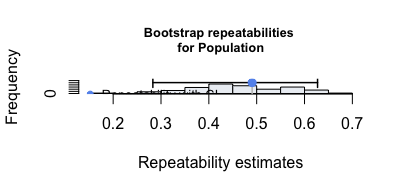
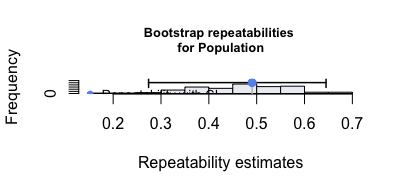
readme finetuning

Changed region(s): [[0.2978, 0.4062, 0.8933, 0.5]]

diff --git a/README.md b/README.md
@@ -72,12 +72,12 @@ summary(rpts)
 #> 
 #> Repeatability estimation overview: 
 #>       R     SE   2.5%  97.5% P_permut  LRT_P
-#>  0.0834 0.0229  0.052  0.141     0.01      0
+#>  0.0834 0.0241 0.0473  0.135     0.01      0
 #> 
 #> Bootstrapping and Permutation test: 
 #>             N    Mean   Median   2.5%  97.5%
-#> boot      100 0.08838 8.55e-02  0.052 0.1407
-#> permut    100 0.00444 7.53e-11  0.000 0.0183
+#> boot      100 0.08967 9.19e-02 0.0473  0.135
+#> permut    100 0.00375 4.23e-11 0.0000  0.019
 #> 
 #> Likelihood ratio test: 
 #> logLik full model = -1528.553
@@ -91,12 +91,12 @@ summary(rpts)
 #> 
 #> Repeatability estimation overview: 
 #>       R     SE   2.5%  97.5% P_permut  LRT_P
-#>   0.491 0.0971  0.283  0.627     0.01      0
+#>   0.491 0.0986  0.274  0.645     0.03      0
 #> 
 #> Bootstrapping and Permutation test: 
 #>             N   Mean Median   2.5%  97.5%
-#> boot      100  0.461  0.458  0.283  0.627
-#> permut    100  0.452  0.451  0.422  0.487
+#> boot      100  0.467  0.476  0.274  0.645
+#> permut    100  0.454  0.453  0.421  0.490
 #> 
 #> Likelihood ratio test: 
 #> logLik full model = -1528.553
@@ -110,7 +110,12 @@ summary(rpts)
 
 ``` r
 plot(rpts, grname = "Container", type = "boot", cex.main = 0.8, col = "#ECEFF4")
+```
+
+![](README-gaussian-1.png)
+
+``` r
 plot(rpts, grname = "Population", type = "boot", cex.main = 0.8, col = "#ECEFF4")
 ```
 
-![](README-gaussian-1.png)![](README-gaussian-2.png)
+![](README-gaussian-2.png)
